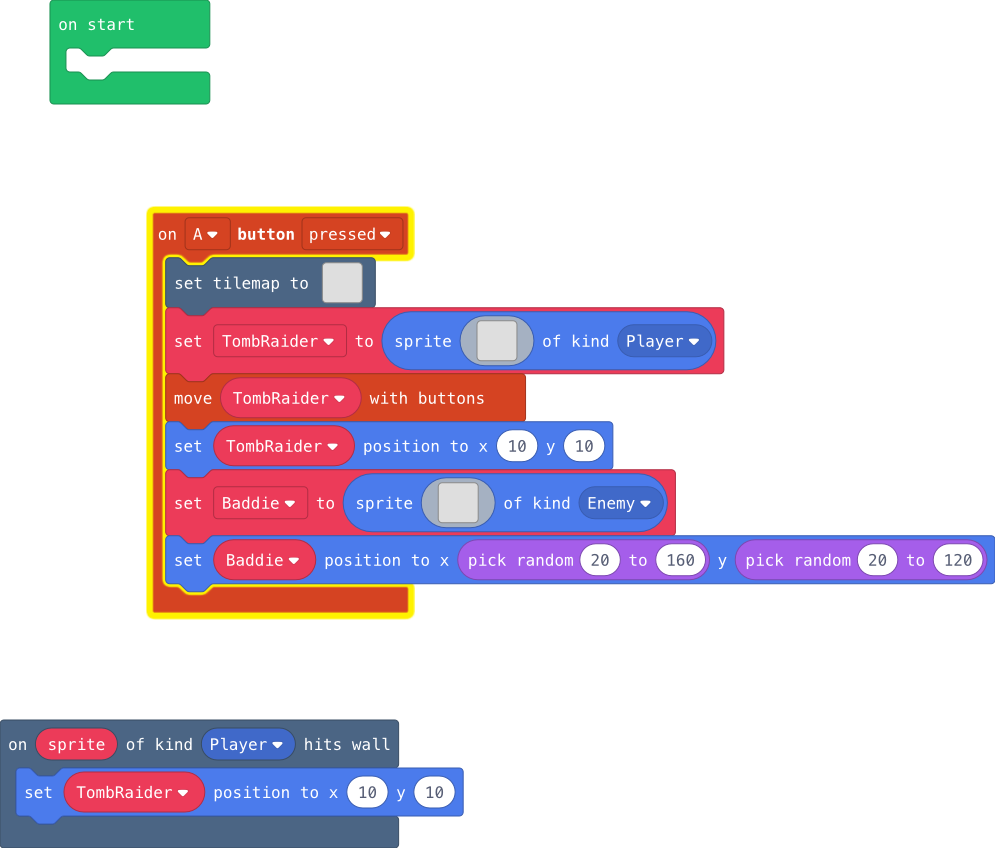
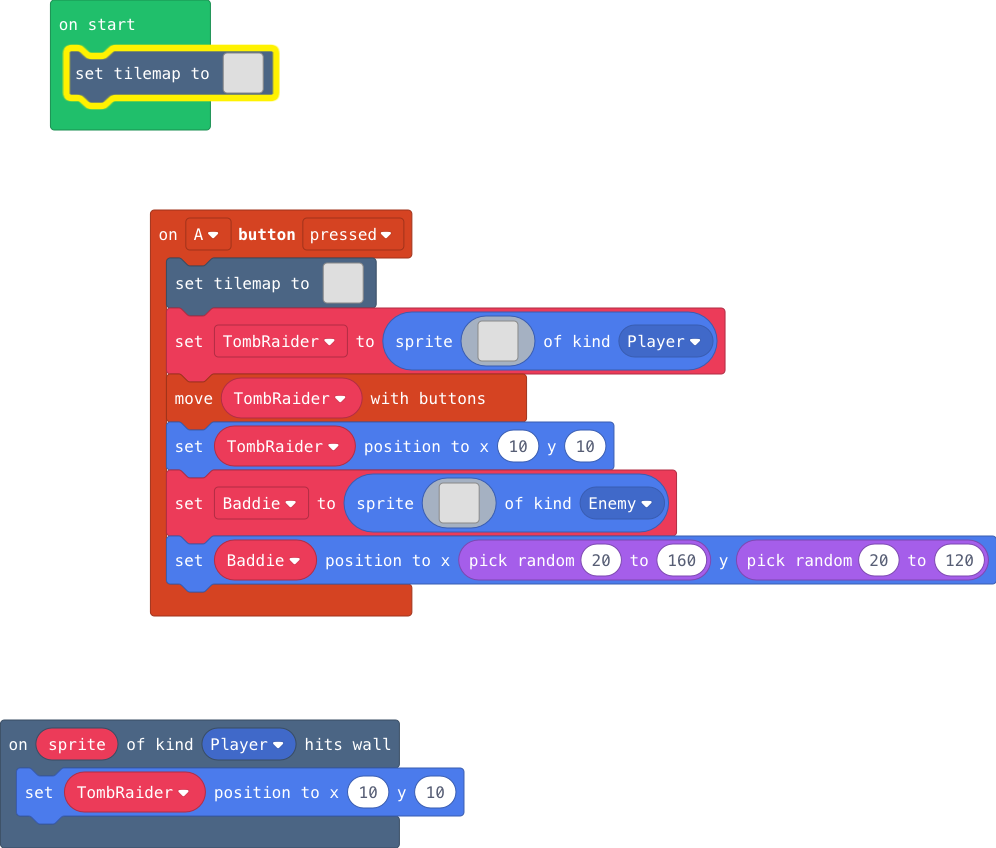
Update main.blocks, main.ts

diff --git a/main.ts b/main.ts
@@ -18,9 +18,45 @@ namespace myTiles {
 . . . . . . . . . . . . . . . . 
 . . . . . . . . . . . . . . . . 
 `
+    //% blockIdentity=images._tile
+    export const tile1 = img`
+. . . . . . . . . . . . . . . . 
+. . . . . . . . . . . . . . . . 
+. . . . . . 2 2 2 . . . . . . . 
+. . . . . 2 2 . 2 2 . . . . . . 
+. . . . . 2 . . . 2 . . . . . . 
+. . . . . 2 . . . 2 . . . . . . 
+. . . . . 2 . 2 2 2 . . . . . . 
+. . . . . 2 2 2 . . . . . . . . 
+. . . . . 2 . . . . . . . . . . 
+. . . . . 2 . . . . . . . . . . 
+. . . . . 2 . . . . . . . . . . 
+. . . . . . . . . . . . . . . . 
+. . . . . . . . . . . . . . . . 
+. . . . . . . . . . . . . . . . 
+. . . . . . . . . . . . . . . . 
+. . . . . . . . . . . . . . . . 
+`
+    //% blockIdentity=images._tile
+    export const tile2 = img`
+2 2 2 2 2 2 2 2 2 2 2 2 2 2 2 2 
+2 2 2 2 2 2 2 2 2 2 2 2 2 2 2 2 
+2 2 2 2 2 2 2 2 2 2 2 2 2 2 2 2 
+2 2 2 2 2 2 2 2 2 2 2 2 2 2 2 2 
+2 2 2 2 2 2 2 2 2 2 2 2 2 2 2 2 
+2 2 2 2 2 2 2 2 2 2 2 2 2 2 2 2 
+2 2 2 2 2 2 2 2 2 2 2 2 2 2 2 2 
+2 2 2 2 2 2 2 2 2 2 2 2 2 2 2 2 
+2 2 2 2 2 2 2 2 2 2 2 2 2 2 2 2 
+2 2 2 2 2 2 2 2 2 2 2 2 2 2 2 2 
+2 2 2 2 2 2 2 2 2 2 2 2 2 2 2 2 
+2 2 2 2 2 2 2 2 2 2 2 2 2 2 2 2 
+2 2 2 2 2 2 2 2 2 2 2 2 2 2 2 2 
+2 2 2 2 2 2 2 2 2 2 2 2 2 2 2 2 
+2 2 2 2 2 2 2 2 2 2 2 2 2 2 2 2 
+2 2 2 2 2 2 2 2 2 2 2 2 2 2 2 2 
+`
 }
-let TombRaider: Sprite = null
-let Baddie: Sprite = null
 scene.onHitWall(SpriteKind.Player, function (sprite) {
     TombRaider.setPosition(10, 10)
 })
@@ -37,7 +73,7 @@ controller.A.onEvent(ControllerButtonEvent.Pressed, function () {
 . . . . . . . . . . 
 . . . . . . . . . . 
 `,
-            [myTiles.tile0,sprites.castle.tilePath1,sprites.dungeon.collectibleRedCrystal,sprites.dungeon.chestClosed,sprites.castle.tilePath9,sprites.castle.tilePath8,sprites.castle.tilePath7,sprites.castle.tilePath3,sprites.castle.tilePath2,sprites.castle.tilePath6,sprites.castle.tilePath4,sprites.castle.tilePath5],
+            [myTiles.tile0,sprites.castle.tilePath1,sprites.dungeon.collectibleRedCrystal,sprites.dungeon.chestClosed,sprites.castle.tilePath9,sprites.castle.tilePath8,sprites.castle.tilePath7,sprites.castle.tilePath3,sprites.castle.tilePath2,sprites.castle.tilePath6,sprites.castle.tilePath4,sprites.castle.tilePath5,myTiles.tile1,myTiles.tile2],
             TileScale.Sixteen
         ))
     TombRaider = sprites.create(img`
@@ -88,3 +124,20 @@ f f f 4 4 c b c b 5 5 5 b f
 `, SpriteKind.Enemy)
     Baddie.setPosition(Math.randomRange(20, 160), Math.randomRange(20, 120))
 })
+let Baddie: Sprite = null
+let TombRaider: Sprite = null
+tiles.setTilemap(tiles.createTilemap(
[1 lines of base64/hex data omitted]
+            img`
+. . . . . . . . . . 
+. . . . . . . . . . 
+. . . . . . . . . . 
+. . . . . . . . . . 
+. . . . . . . . . . 
+. . . . . . . . . . 
+. . . . . . . . . . 
+. . . . . . . . . . 
+`,
+            [myTiles.tile0,sprites.castle.tilePath5,myTiles.tile1,myTiles.tile2],
+            TileScale.Sixteen
+        ))
